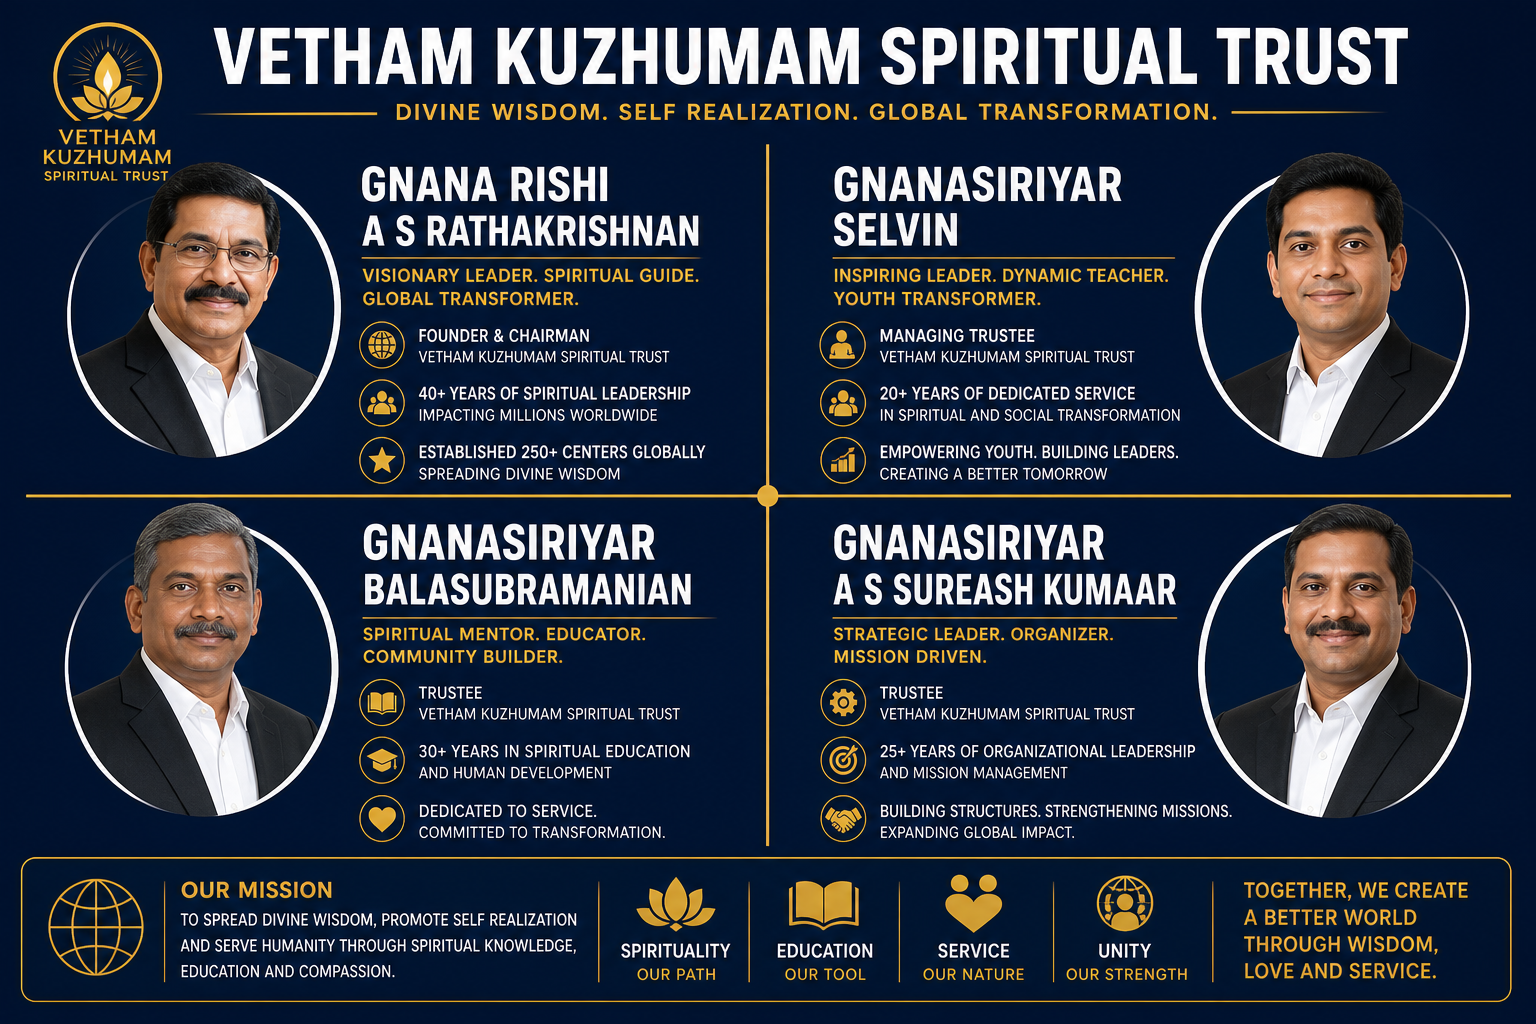
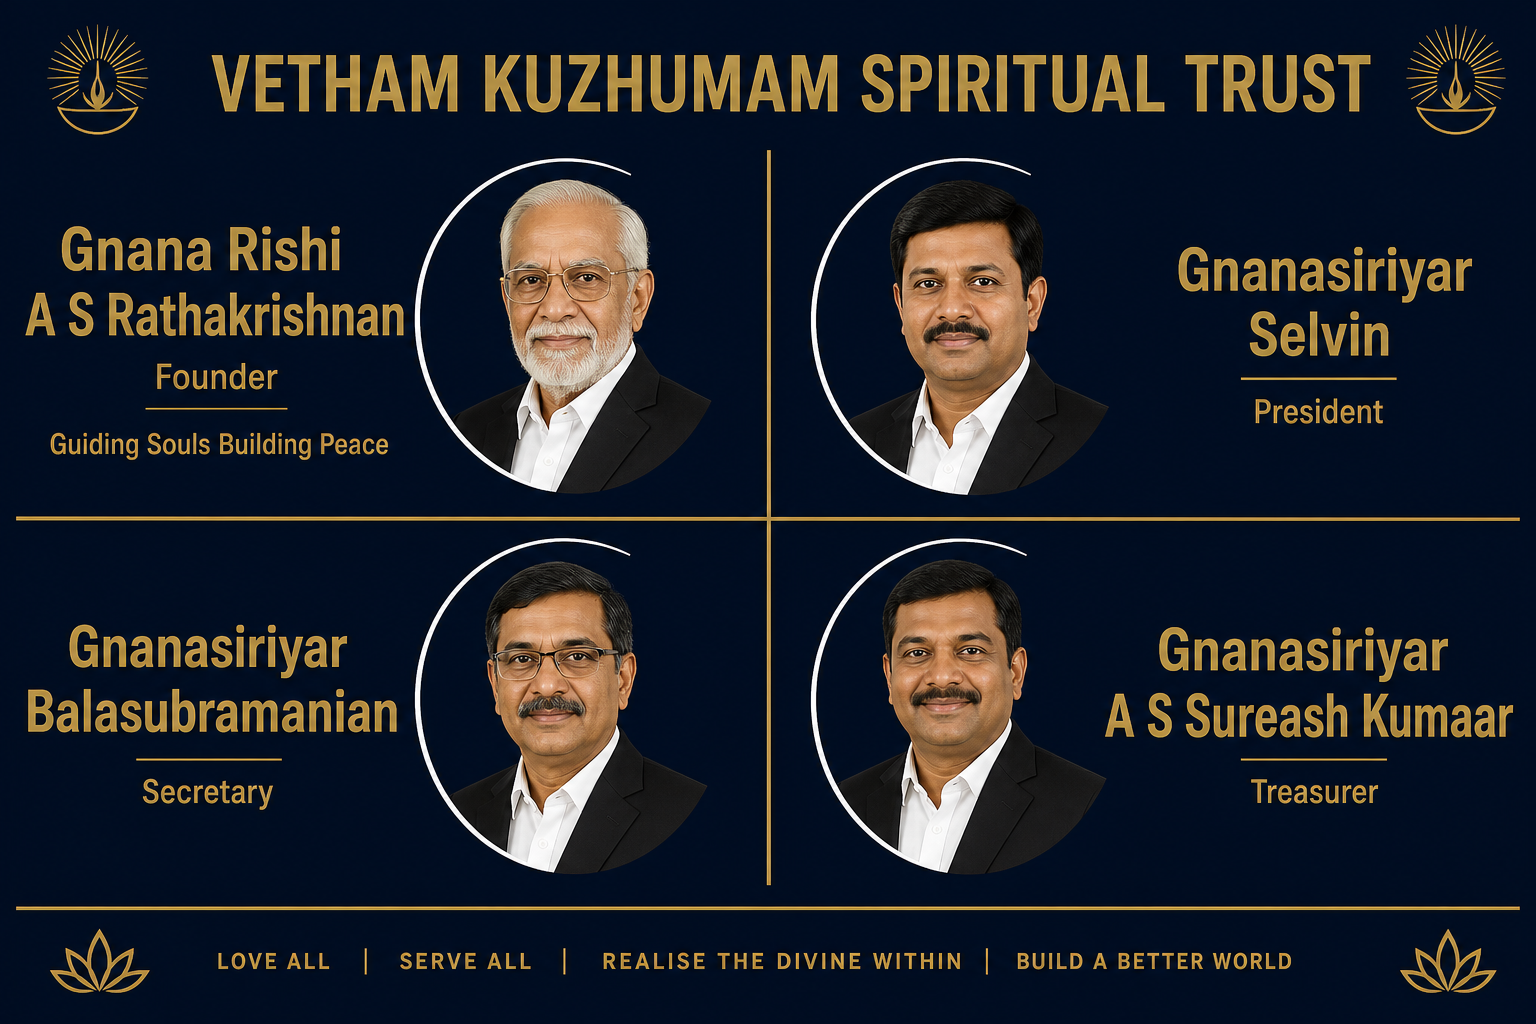
Unify leadership card backgrounds across all four profiles
- Regenerate all four card images with matching midnight navy background
- Seamless 2×2 grid frame with shared #0b1020 backdrop and gold dividers
- Remove gaps and per-card borders that exposed background differences

diff --git a/public/assets/css/vetham-custom.css b/public/assets/css/vetham-custom.css
@@ -3275,11 +3275,11 @@ html[data-ui-lang]:not([data-ui-lang="en"]) .sticky-header .nav-right li.btn-box
   }
 }
 
-/* Leadership section — AI profile card images in 2×2 grid */
+/* Leadership section — AI profile cards in seamless unified 2×2 grid */
 .vetham-leadership-images {
   position: relative;
   overflow: hidden;
-  background: linear-gradient(165deg, #0b1020 0%, #12151f 50%, #0d1428 100%);
+  background: #0b1020;
   padding: 70px 0 64px;
 }
 
@@ -3313,44 +3313,71 @@ html[data-ui-lang]:not([data-ui-lang="en"]) .sticky-header .nav-right li.btn-box
   padding: 0 6px;
 }
 
+.vetham-leadership-images__frame {
+  position: relative;
+  max-width: 1400px;
+  margin: 0 auto;
+  background: #0b1020;
+  border: 1px solid rgba(201, 162, 74, 0.42);
+  border-radius: 4px;
+  overflow: hidden;
+  box-shadow: 0 24px 60px rgba(0, 0, 0, 0.45);
+}
+
+.vetham-leadership-images__frame::before,
+.vetham-leadership-images__frame::after {
+  content: '';
+  position: absolute;
+  z-index: 2;
+  pointer-events: none;
+  background: linear-gradient(90deg, transparent, #c9a24a 20%, #e8d5a3 50%, #c9a24a 80%, transparent);
+}
+
+.vetham-leadership-images__frame::before {
+  top: 0;
+  bottom: 0;
+  left: 50%;
+  width: 1px;
+  transform: translateX(-50%);
+}
+
+.vetham-leadership-images__frame::after {
+  left: 0;
+  right: 0;
+  top: 50%;
+  height: 1px;
+  transform: translateY(-50%);
+  background: linear-gradient(180deg, transparent, #c9a24a 20%, #e8d5a3 50%, #c9a24a 80%, transparent);
+}
+
 .vetham-leadership-images__grid {
   display: grid;
   grid-template-columns: repeat(2, minmax(0, 1fr));
-  gap: 14px;
-  max-width: 1400px;
-  margin: 0 auto;
+  gap: 0;
+  background: #0b1020;
 }
 
 .vetham-leadership-images__item {
-  opacity: 0;
-  transform: translateY(24px);
-  transition: opacity 0.7s ease, transform 0.7s ease;
-}
-
-.vetham-leadership-images.is-visible .vetham-leadership-images__item {
-  opacity: 1;
-  transform: translateY(0);
+  background: #0b1020;
 }
 
 .vetham-leadership-images__link {
   display: block;
-  border-radius: 8px;
-  overflow: hidden;
-  transition: transform 0.35s ease, box-shadow 0.35s ease;
+  background: #0b1020;
+  transition: opacity 0.3s ease;
 }
 
 .vetham-leadership-images__link:hover {
-  transform: translateY(-4px);
-  box-shadow: 0 24px 50px rgba(0, 0, 0, 0.45);
+  opacity: 0.92;
 }
 
 .vetham-leadership-images__card {
   margin: 0;
-  border-radius: 8px;
+  border-radius: 0;
   overflow: hidden;
-  border: 1px solid rgba(201, 162, 74, 0.28);
-  box-shadow: 0 16px 40px rgba(0, 0, 0, 0.4);
-  background: #12151f;
+  border: none;
+  box-shadow: none;
+  background: #0b1020;
 }
 
 .vetham-leadership-images__card img {
@@ -3358,6 +3385,7 @@ html[data-ui-lang]:not([data-ui-lang="en"]) .sticky-header .nav-right li.btn-box
   width: 100%;
   height: auto;
   vertical-align: top;
+  background: #0b1020;
 }
 
 .vetham-leadership-images__cta-wrap {
@@ -3412,9 +3440,26 @@ html[data-ui-lang]:not([data-ui-lang="en"]) .sticky-header .nav-right li.btn-box
 }
 
 @media only screen and (max-width: 991px) {
+  .vetham-leadership-images__frame::before {
+    display: none;
+  }
+
+  .vetham-leadership-images__frame::after {
+    left: 0;
+    right: 0;
+    top: auto;
+    bottom: 0;
+    height: 1px;
+    transform: none;
+    background: linear-gradient(90deg, transparent, #c9a24a 20%, #e8d5a3 50%, #c9a24a 80%, transparent);
+  }
+
   .vetham-leadership-images__grid {
     grid-template-columns: 1fr;
-    gap: 18px;
+  }
+
+  .vetham-leadership-images__item:not(:last-child) {
+    border-bottom: 1px solid rgba(201, 162, 74, 0.35);
   }
 }
 

diff --git a/src/components/LeadershipShowcase.jsx b/src/components/LeadershipShowcase.jsx
@@ -1,4 +1,4 @@
-import { useEffect, useRef, useState } from 'react';
+import { useRef } from 'react';
 import { Link } from 'react-router-dom';
 import { SITE, TEAM } from '../config/site';
 import { img } from '../config/images';
@@ -6,36 +6,11 @@ import LazyImage from './LazyImage';
 
 export default function LeadershipShowcase({ linkToLeadership = true, fullPage = false }) {
   const sectionRef = useRef(null);
-  const [visible, setVisible] = useState(false);
-
-  useEffect(() => {
-    const el = sectionRef.current;
-    if (!el) return undefined;
-
-    const reveal = () => setVisible(true);
-    if (el.getBoundingClientRect().top < window.innerHeight * 0.92) {
-      reveal();
-      return undefined;
-    }
-
-    const observer = new IntersectionObserver(
-      ([entry]) => {
-        if (entry.isIntersecting) {
-          reveal();
-          observer.disconnect();
-        }
-      },
-      { threshold: 0.06 },
-    );
-
-    observer.observe(el);
-    return () => observer.disconnect();
-  }, []);
 
   return (
     <section
       ref={sectionRef}
-      className={`vetham-leadership-images ${fullPage ? 'vetham-leadership-images--page' : ''} ${visible ? 'is-visible' : ''}`}
+      className={`vetham-leadership-images ${fullPage ? 'vetham-leadership-images--page' : ''}`}
       aria-label="Vetham Kuzhumam Spiritual Trust Leadership"
     >
       <div className="auto-container">
@@ -47,34 +22,32 @@ export default function LeadershipShowcase({ linkToLeadership = true, fullPage =
           </p>
         </header>
 
-        <div className="vetham-leadership-images__grid">
-          {TEAM.map((member, index) => {
-            const card = (
-              <figure className="vetham-leadership-images__card">
-                <LazyImage
-                  src={img(member.leadershipCard)}
-                  alt={`${member.name} – Spiritual Master, ${member.role}`}
-                  loading={index < 2 ? 'eager' : 'lazy'}
-                />
-              </figure>
-            );
+        <div className="vetham-leadership-images__frame">
+          <div className="vetham-leadership-images__grid">
+            {TEAM.map((member, index) => {
+              const card = (
+                <figure className="vetham-leadership-images__card">
+                  <LazyImage
+                    src={img(member.leadershipCard)}
+                    alt={`${member.name} – Spiritual Master, ${member.role}`}
+                    loading={index < 2 ? 'eager' : 'lazy'}
+                  />
+                </figure>
+              );
 
-            return (
-              <article
-                key={member.name}
-                className="vetham-leadership-images__item"
-                style={{ transitionDelay: `${120 + index * 100}ms` }}
-              >
-                {linkToLeadership ? (
-                  <Link to="/leadership" className="vetham-leadership-images__link">
-                    {card}
-                  </Link>
-                ) : (
-                  card
-                )}
-              </article>
-            );
-          })}
+              return (
+                <article key={member.name} className="vetham-leadership-images__item">
+                  {linkToLeadership ? (
+                    <Link to="/leadership" className="vetham-leadership-images__link">
+                      {card}
+                    </Link>
+                  ) : (
+                    card
+                  )}
+                </article>
+              );
+            })}
+          </div>
         </div>
 
         {linkToLeadership ? (
